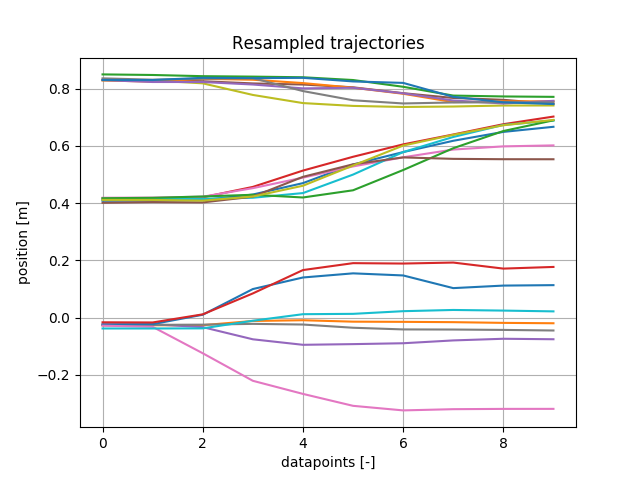
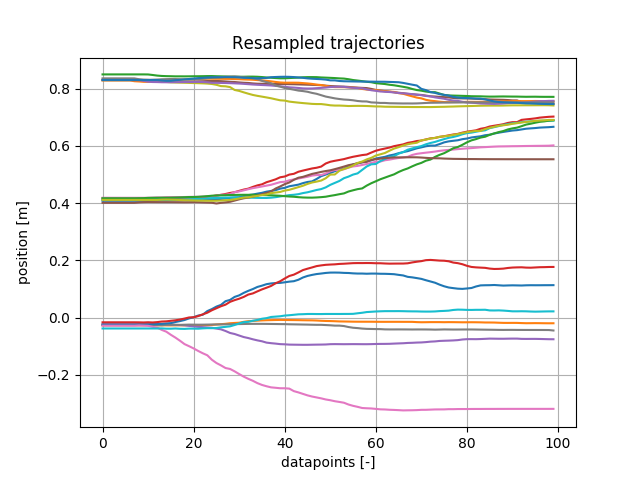
refined trajectory keeps increasing in the total time after each refinement

diff --git a/gui/nodes/gui.py b/gui/nodes/gui.py
@@ -465,8 +465,8 @@ class experimentGUI(QMainWindow):
                 print(self.refined_trajectory.times)
                 rospy.loginfo("Got a refined trajectory")
 
-            except AttributeError:
-                rospy.loginfo("No refined trajectory available yet!")
+            except AttributeError as e:
+                rospy.loginfo(("No refined trajectory available yet!: {}").format(e))
 
         except (rospy.ServiceException, rospy.ROSException) as e:
             print("Service call failed: %s"%e)

diff --git a/learning_from_demonstration/nodes/lfd_node.py b/learning_from_demonstration/nodes/lfd_node.py
@@ -384,7 +384,7 @@ class lfdNode():
         
         self.lfd.load_trajectories_from_folder(self.raw_path)
 
-        desired_datapoints = 10
+        desired_datapoints = 100
         self.lfd.prepare_for_learning(desired_datapoints)
         
         plt.figure()

diff --git a/learning_from_demonstration/src/learning_from_demonstration_python/learning_from_demonstration.py b/learning_from_demonstration/src/learning_from_demonstration_python/learning_from_demonstration.py
@@ -209,7 +209,7 @@ class learningFromDemonstration():
         self.num_samples = len(self.trajectories_for_learning[0])
         
         # default value
-        num_basis = 10
+        num_basis = 20
 
         # default value
         sigma = 0.1
